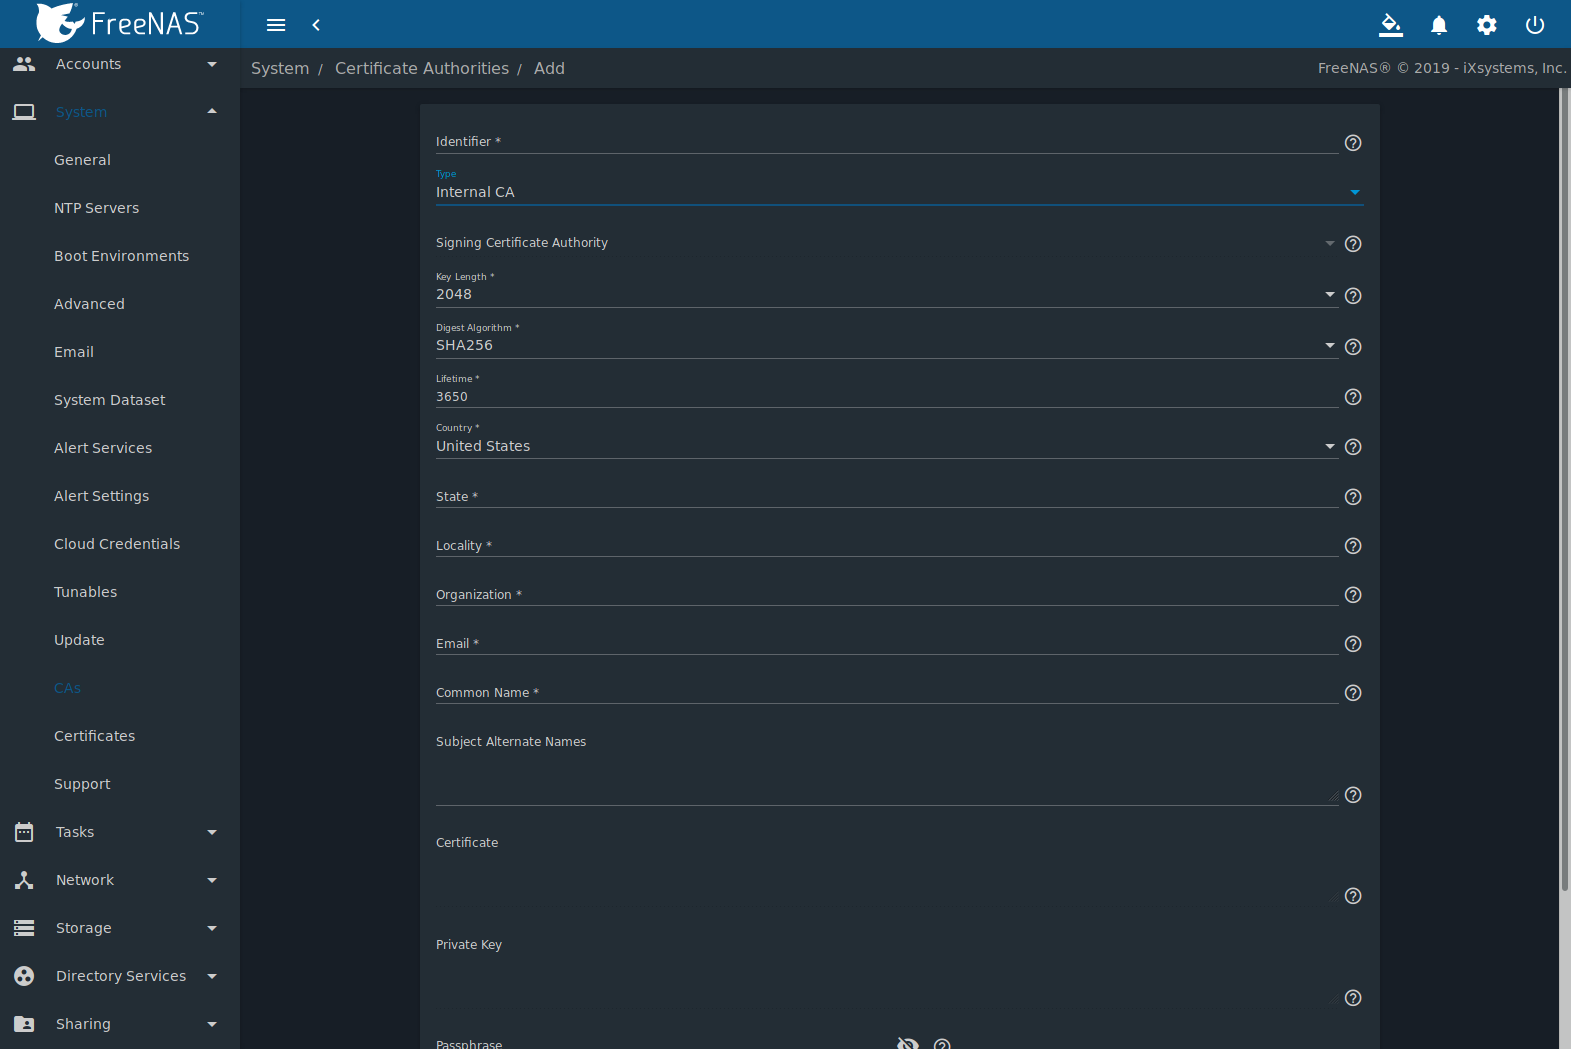
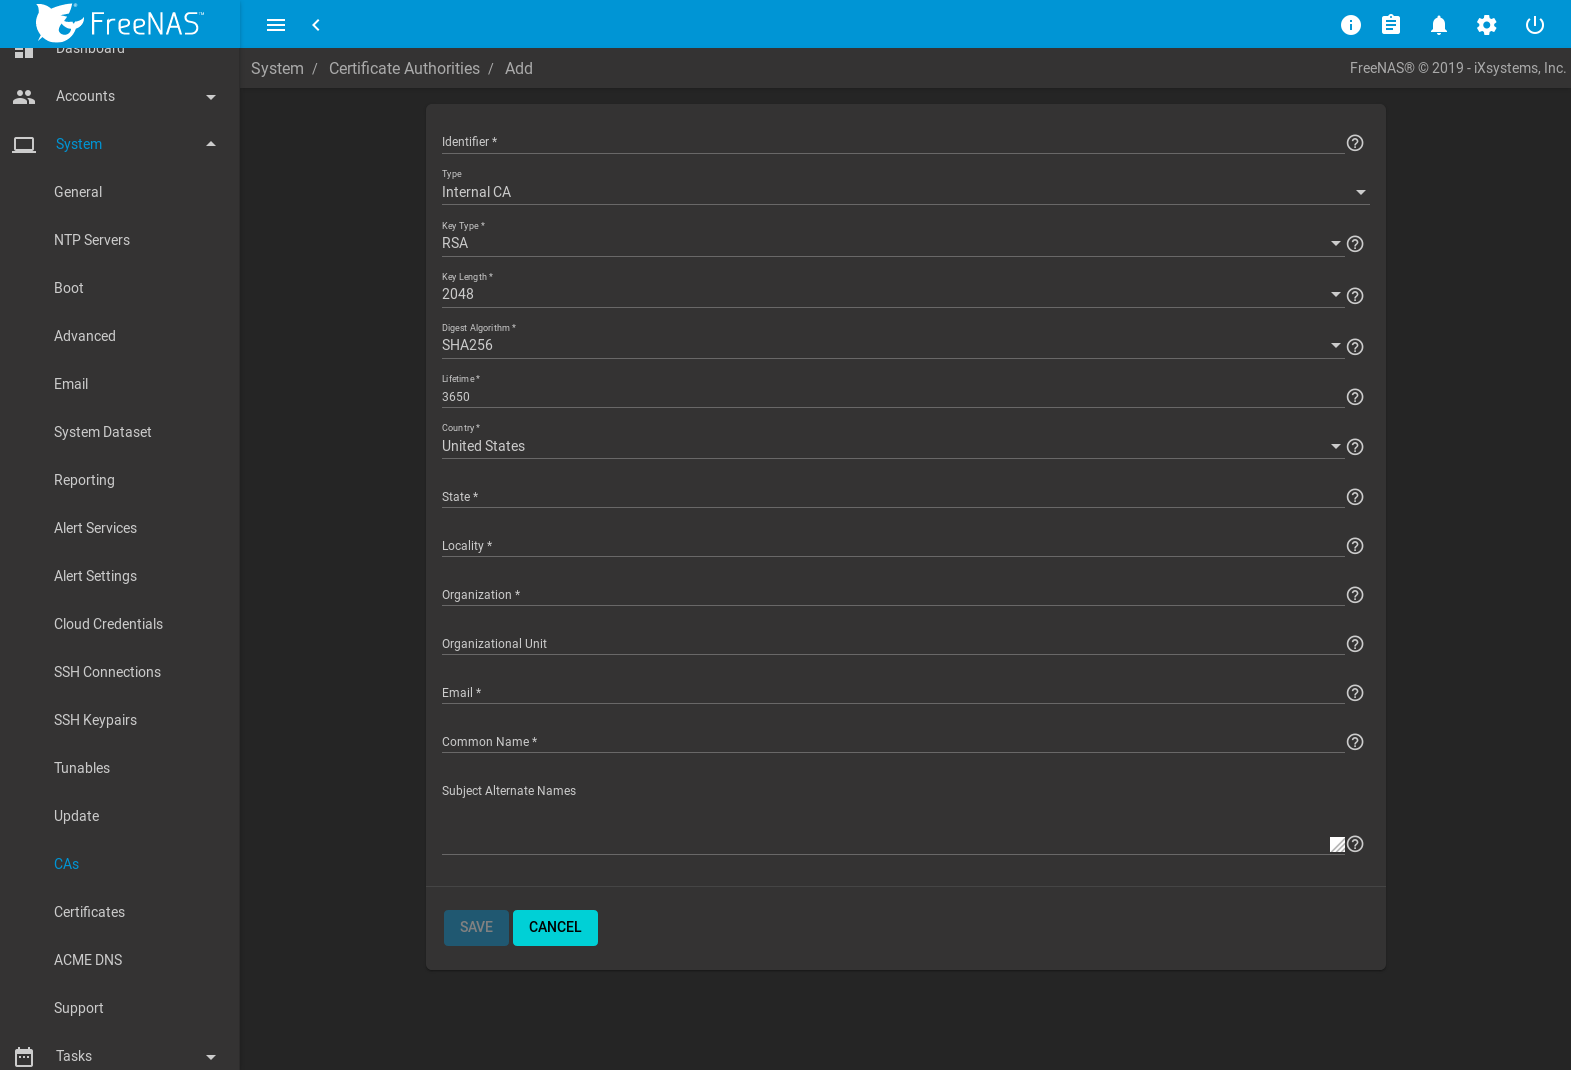
NAS-100821: Add EC crypto support - Add intro entry. - Update CA and Cert options tables - Replace related images. - HTML build test: no issues.

diff --git a/userguide/system.rst b/userguide/system.rst
@@ -2391,7 +2391,15 @@ information for the organization.
    | Type                    | drop-down menu       | Choose the type of CA. Choices are *Internal CA*, *Intermediate CA*, and *Import CA*.           |
    |                         |                      |                                                                                                 |
    +-------------------------+----------------------+-------------------------------------------------------------------------------------------------+
-   | Key Length              | drop-down menu       | For security reasons, a minimum of *2048* is recommended.                                       |
+   | Key Type                | drop-down menu       | Cryptosystem for the certificate authority key. Choose between *RSA*                            |
+   |                         |                      | (`Rivest-Shamir-Adleman <https://en.wikipedia.org/wiki/RSA_(cryptosystem)>`__) and *EC*         |
+   |                         |                      | (`Elliptic-curve <https://en.wikipedia.org/wiki/Elliptic-curve_cryptography>`__) encryption.    |
+   +-------------------------+----------------------+-------------------------------------------------------------------------------------------------+
+   | EC Curve                | drop-down menu       | Elliptic curve to apply to the certificate authority key. Choose from different *Brainpool* or  |
+   |                         |                      | *SEC* curve parameters. See `RFC 5639 <https://tools.ietf.org/html/rfc5639>`__ and              |
+   |                         |                      | `SEC 2 <http://www.secg.org/sec2-v2.pdf>`__ for more details. Applies to *EC* keys only.        |
+   +-------------------------+----------------------+-------------------------------------------------------------------------------------------------+
+   | Key Length              | drop-down menu       | For security reasons, a minimum of *2048* is recommended. Applies to *RSA* keys only.           |
    |                         |                      |                                                                                                 |
    +-------------------------+----------------------+-------------------------------------------------------------------------------------------------+
    | Digest Algorithm        | drop-down menu       | The default is acceptable unless the organization requires a different algorithm.               |
@@ -2596,7 +2604,15 @@ as the signing authority.
    | Signing Certificate     | drop-down menu       | Select the CA which was previously imported or created using :ref:`CAs`.                        |
    | Authority               |                      |                                                                                                 |
    +-------------------------+----------------------+-------------------------------------------------------------------------------------------------+
-   | Key Length              | drop-down menu       | For security reasons, a minimum of *2048* is recommended.                                       |
+   | Key Type                | drop-down menu       | Cryptosystem for the certificate key. Choose between *RSA*                                      |
+   |                         |                      | (`Rivest-Shamir-Adleman <https://en.wikipedia.org/wiki/RSA_(cryptosystem)>`__) and *EC*         |
+   |                         |                      | (`Elliptic-curve <https://en.wikipedia.org/wiki/Elliptic-curve_cryptography>`__) encryption.    |
+   +-------------------------+----------------------+-------------------------------------------------------------------------------------------------+
+   | EC Curve                | drop-down menu       | Elliptic curve to apply to the certificate key. Choose from different *Brainpool* or *SEC*      |
+   |                         |                      | curve parameters. See `RFC 5639 <https://tools.ietf.org/html/rfc5639>`__ and                    |
+   |                         |                      | `SEC 2 <http://www.secg.org/sec2-v2.pdf>`__ for more details. Applies to *EC* keys only.        |
+   +-------------------------+----------------------+-------------------------------------------------------------------------------------------------+
+   | Key Length              | drop-down menu       | For security reasons, a minimum of *2048* is recommended. Applies to *RSA* keys only.           |
    |                         |                      |                                                                                                 |
    +-------------------------+----------------------+-------------------------------------------------------------------------------------------------+
    | Digest Algorithm        | drop-down menu       | The default is acceptable unless the organization requires a different algorithm.               |

diff --git a/userguide/intro.rst b/userguide/intro.rst
@@ -235,6 +235,11 @@ These screen options have changed:
   :guilabel:`Private Key ID` in the
   :ref:`SFTP cloud credential options <cloud_cred_tab>`.
 
+* `Elliptic Curve Cryptography (ECC) <https://en.wikipedia.org/wiki/Elliptic-curve_cryptography>`__
+  key support has been added to the options for
+  :ref:`Certificate Authorities <internal_ca_opts_tab>` and
+  :ref:`Certificates <cert_create_opts_tab>`.
+
 * :guilabel:`Organizational Unit` has been added to the
   :ref:`CAs` and :ref:`Certificates` options.
 
